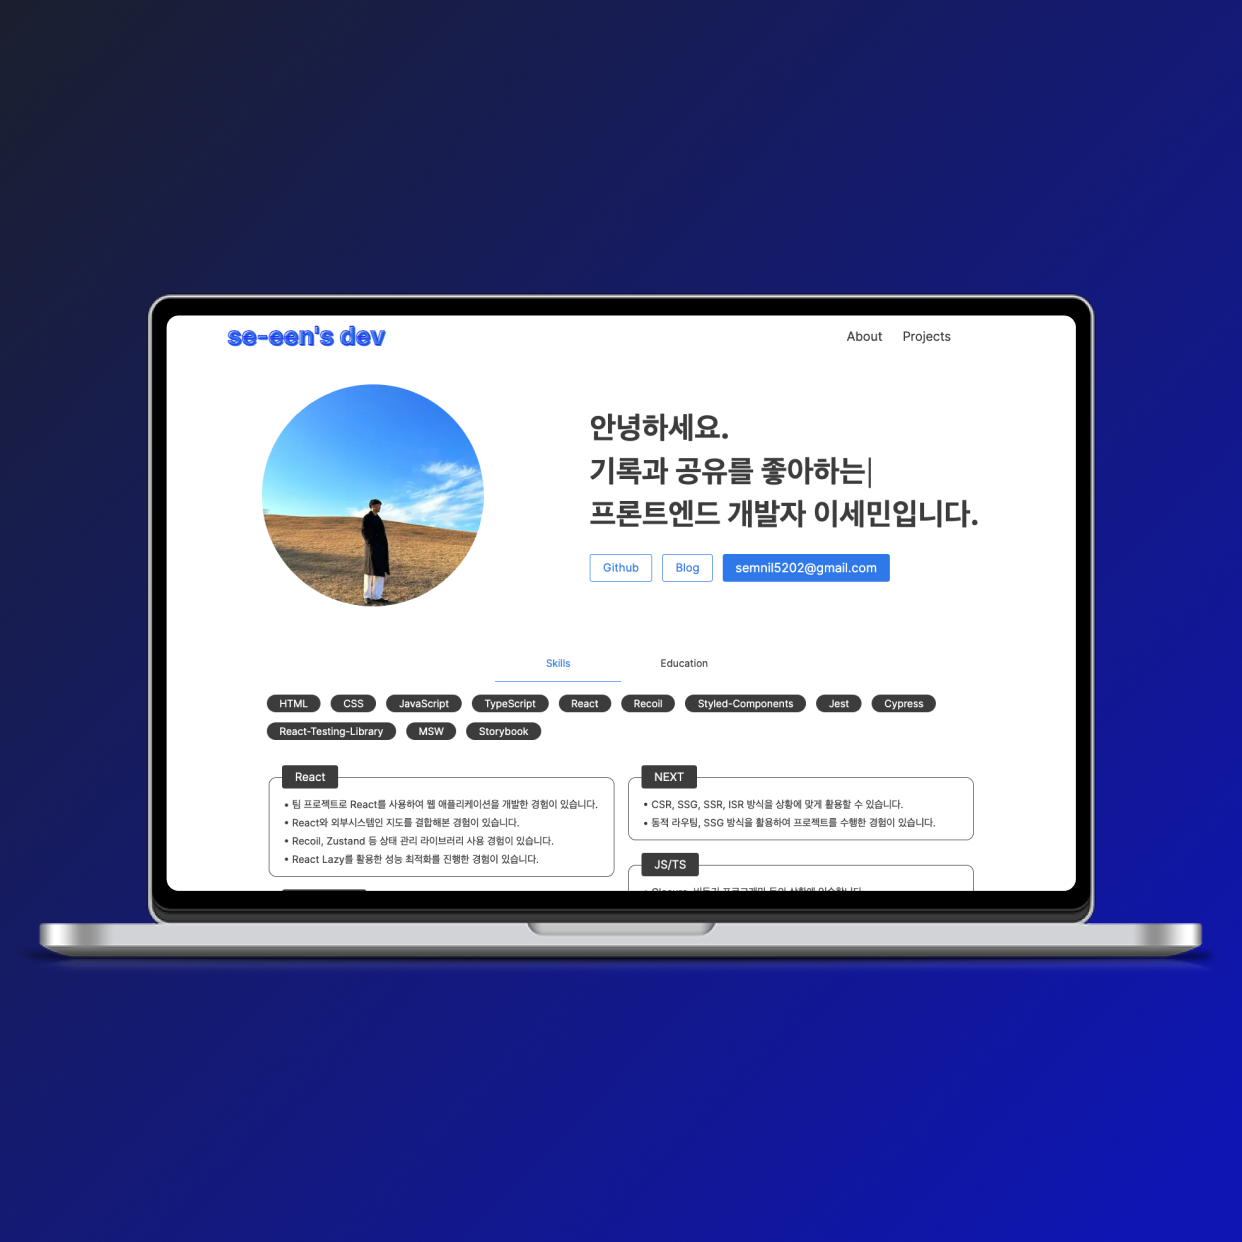
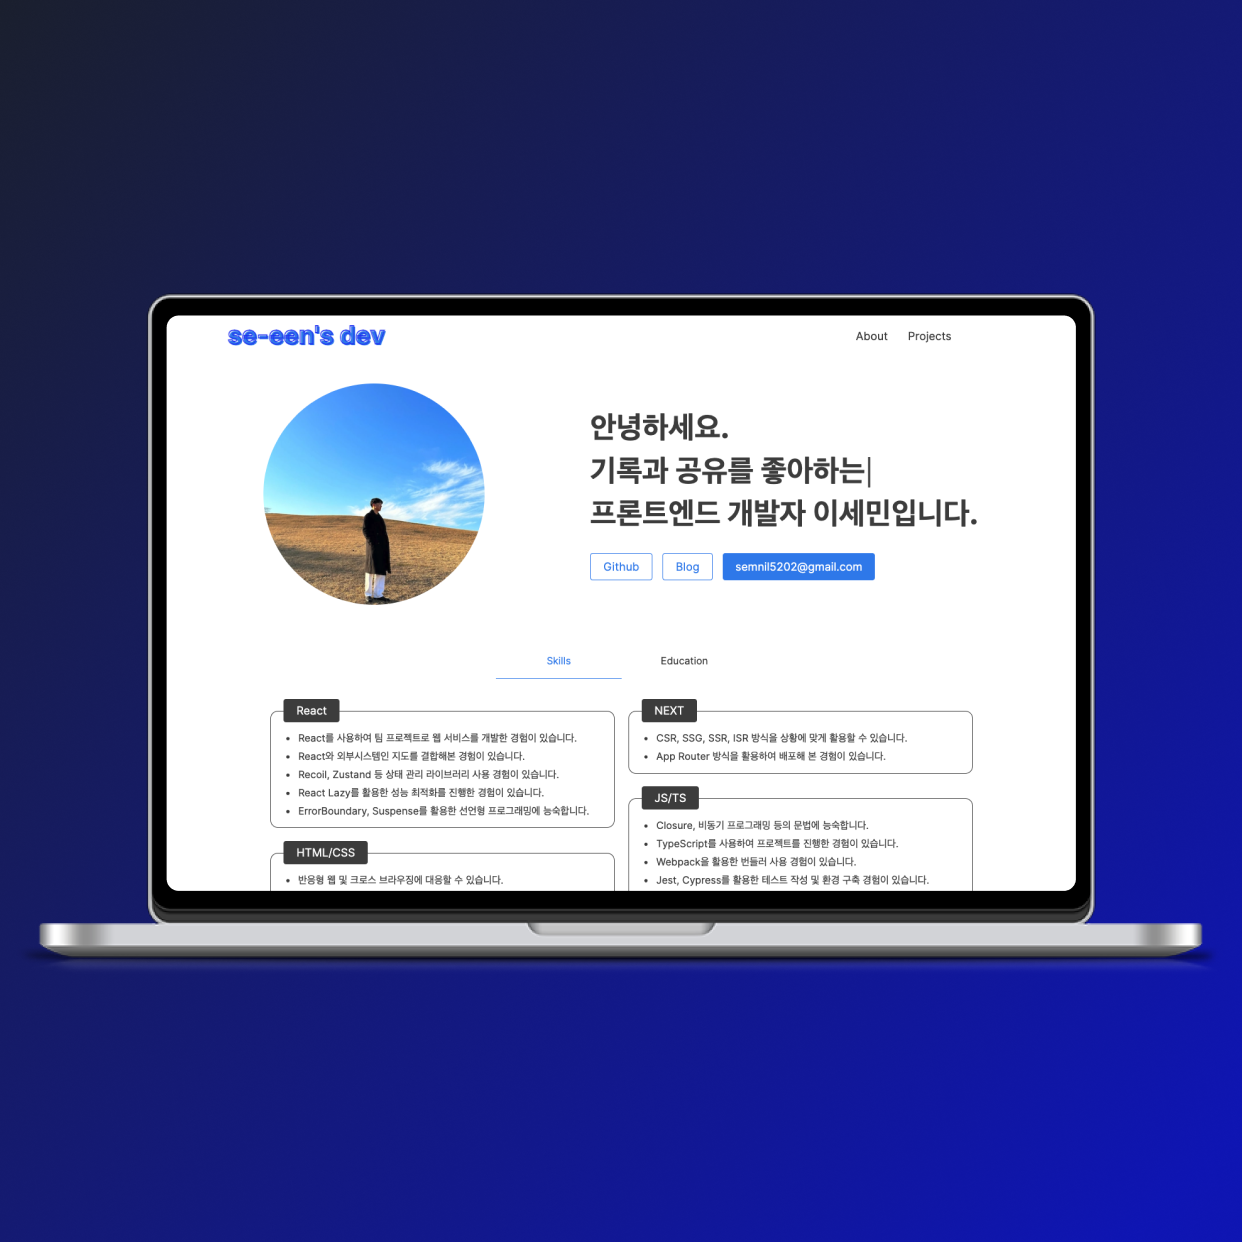
docs: 컨셉비 프로젝트 내용 업데이트 및 이미지 수정

diff --git a/src/constants/data.ts b/src/constants/data.ts
@@ -46,7 +46,7 @@ export const STRENGTHS = [
     title: 'React',
     description: [
       'React와 지도를 결합하여 서비스를 개발한 경험이 있습니다.',
-      '상태 관리 라이브러리인 Recoil, Zustand를 사용할 수 있습니다.',
+      'Recoil, Zustand 상태 관리 라이브러리를 사용할 수 있습니다.',
       'React Lazy를 활용하여 로딩 성능 최적화를 진행한 경험이 있습니다.',
       'Custom Hook을 활용하여 컴포넌트 관심사 분리 및 재사용에 익숙합니다.',
       'ErrorBoundary, Suspense를 활용한 선언형 프로그래밍에 익숙합니다.',
@@ -63,8 +63,8 @@ export const STRENGTHS = [
   {
     title: 'NEXT',
     description: [
+      'App Router 방식을 사용할 수 있습니다.',
       'CSR, SSG, SSR, ISR 방식을 상황에 맞게 활용할 수 있습니다.',
-      'App Router 방식을 활용하여 프로젝트를 배포해 본 경험이 있습니다.',
     ],
   },
 
@@ -135,7 +135,8 @@ export const PROJECTS = [
   {
     imageSrc: conceptBeImage,
     title: '컨셉비',
-    description: '아이디어',
+    description:
+      '아이디어를 공유하고 토론하며 프로젝트 인원들을 구인할 수 있는 서비스',
     slug: 'concept-be',
   },
   {
@@ -304,8 +305,9 @@ export const PROJECT_DETAILS: ProjectDetails = {
       imageSrc: conceptBeImage,
       name: '컨셉비',
       intros: [
-        '다양하고 재미있는 아이디어를 구경하고 토론할 수 있으며',
-        '기존의 지도 서비스는 개인의 관심사를 기록하는데 용이하지만, 다른 사람과 정보를 공유하는데 불편하다는 점에서 이를 개선하고자 프로젝트를 시작했습니다.',
+        '아이디어를 공유하고 토론하며 프로젝트 인원들을 구인할 수 있는 서비스입니다.',
+        '기존의 프로젝트 구인 서비스는 개발 분야에 치우쳐져 있어 기획, 마케팅 등의 비 개발 분야는 프로젝트 인원 구인이 어렵다는 점을 개선하고자 이 프로젝트를 시작했습니다.',
+        '아이디어를 공유하면서 토론하고 평가할 수 있는 공간을 제공하며, 사용자들 간의 다양한 전문성을 융합하여 다채로운 프로젝트를 형성하고자 합니다.',
       ],
       period: '2023.12 - 현재',
       personnel: 'PM: 2명, Design: 2명, BE: 3명, FE: 2명',
@@ -321,26 +323,37 @@ export const PROJECT_DETAILS: ProjectDetails = {
           name: 'Design System',
           link: 'https://github.com/ConceptBe/conceptbe-design-system',
         },
+        {
+          name: 'Storybook',
+          link: 'https://65a04fca8611ba47d7f8b115-bdybhmnomg.chromatic.com/',
+        },
       ],
     },
     details: [
       {
         title: '1. 레거시 코드 개선',
         problems: [
-          '프론트엔드에서 API 로직을 작성하려면 백엔드 개발이 이루어진 후에 가능하기에, 개발 주기가 비효율적으로 흘러가는 불편함이 있었습니다.',
+          'API 모듈과 컴포넌트 로직의 경계가 모호하여 코드 가독성이 떨어지고 컴포넌트 재사용성이 좋지 않았습니다.',
+          '컴포넌트 내부에 API 응답에 따른 성공, 로딩, 에러 상태 처리 로직이 모두 위치함으로써 컴포넌트의 책임 분리가 모호했습니다.',
+          '컴포넌트 스타일링 방식이 제각각이어서 중복되는 로직이 많았고 가독성 또한 떨어졌습니다.',
         ],
         solves: [
-          'MSW를 사용하여 Mock API를 만듦으로써 서버 의존성 없이 API 로직을 작성할 수 있도록 하였고, 추후 End Point만 교체하는 것으로 실제 서버와의 통신이 가능하도록 했습니다.',
+          'API 모듈과 컴포넌트 사이에 Business Layer를 두어 해당 Layer에 API 요청 로직과 응답값 가공 로직을 커스텀 훅으로 분리했습니다. 이를 통해 컴포넌트와 비즈니스 로직을 분리하여 관심사 분리를 수행할 수 있었고, 컴포넌트 재사용성과 코드 가독성을 높일 수 있었습니다.',
+          'React Query의 useSuspenseQuery와 React의 Suspense를 활용하여 로딩 상태에 대한 책임을 위임하고, ApiErrorBoundary와 GlobalErrorBoundary를 구현하여 에러 상태에 대한 책임을 위임했습니다. 이를 통해 컴포넌트는 오로지 성공 상태에 대한 책임을 갖게하여 관심사 분리를 수행할 수 있었습니다.',
+          '프로젝트 전반에 사용할 수 있는 공통 컴포넌트를 구현함으로써 중복되는 스타일링 로직을 최소화하고, 사용 방식을 정형화함으로써 가독성을 개선했습니다.',
         ],
       },
       {
-        title: '2. 디자인 시스템 구축',
+        title: '2. Storybook을 활용한 디자인 시스템 구축',
         problems: [
-          '버튼, 텍스트 등 미션 전반에 비슷하게 사용되는 컴포넌트들로 인해 중복 코드가 자주 발생했습니다.',
-          '통일되지 않은 스타일 코드로 인해 UI 일관성을 헤칠 우려가 있었습니다.',
+          '기획 및 디자이너분들이 구현된 컴포넌트를 확인하려면 프로젝트를 AWS 환경에 배포해야만 했으며, 서로 다른 전문성으로 인해 소통에 아쉬움이 있었습니다.',
+          '디자인 시스템의 컴포넌트를 수정한 후 미처 확인하지 못한 오류로 인해, 컴포넌트 개발 단계에서 오류가 발생하는 경우가 종종 있었습니다.',
+          '디자인 시스템을 최초로 배포했을 때 컴포넌트, 이미지, 폰트 등이 모두 포함되다 보니 번들 사이즈가 4.5MB로 너무 큰 문제가 있었습니다.',
         ],
         solves: [
-          'Styled-Components를 통해 다형성 컴포넌트를 구현하고, 미션 전반에 사용되는 공통 컴포넌트를 분리함으로써 중복 코드를 최소화하고 일관된 UI를 구현할 수 있었습니다.',
+          'Figma에 마련된 디자인 가이드에 맞게 공통 컴포넌트를 구현하고 Storybook을 활용하여 문서화 및 배포함으로써, 기획 및 디자이너분들이 보다 편리하게 구현 결과물을 확인할 수 있도록 했습니다. 특히 Addon 기능을 적극적으로 활용하여 컴포넌트의 다양한 형태를 확인하고 테스트 해볼 수 있는 공간을 제공했습니다.',
+          'React-Testing-Library와 Jest를 활용하여 Storybook 상호 작용 테스트를 수행함으로써, 수정 과정에서 미처 확인하지 못한 오류를 조기에 식별하여 보다 안정적인 개발을 진행할 수 있도록 했습니다.',
+          '사용하지 않는 폰트 파일을 제거하고 font-face 속성을 수정했으며, Vite의 rollupOptions 속성을 활용하여 번들 파일에 포함시키지 않을 외부의 라이브러리 의존성 목록을 지정했습니다. 이를 통해 기존의 4.5MB이던 번들 사이즈를 1.93MB로 감소시킬 수 있었습니다.',
         ],
       },
     ],
